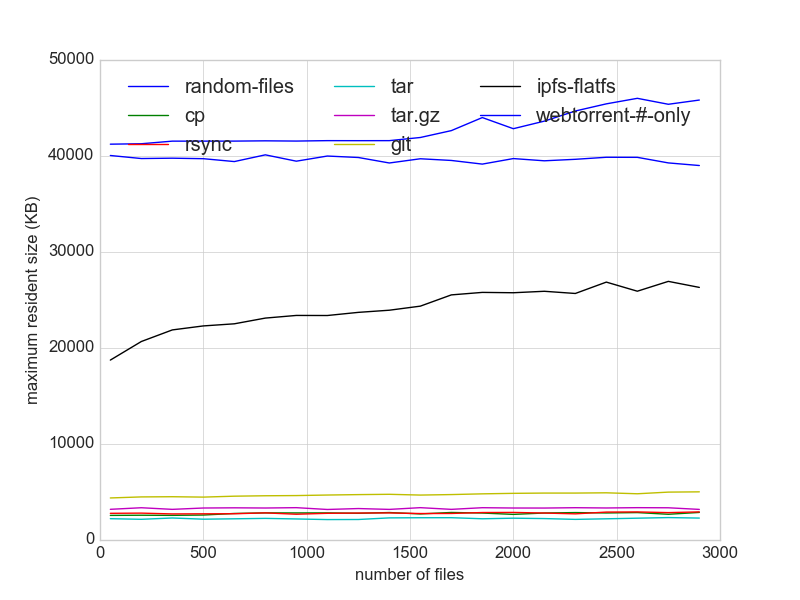
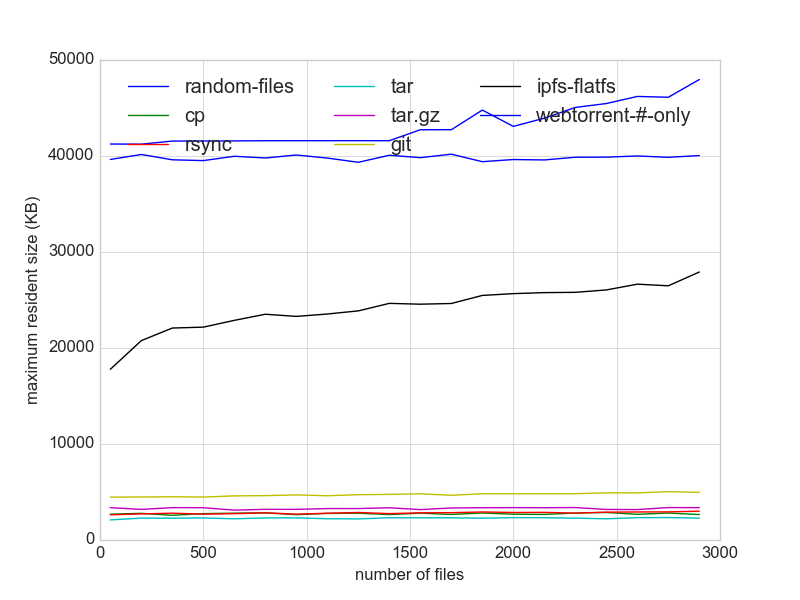
Cleanup add perf

diff --git a/add/graph.py b/add/graph.py
@@ -1,0 +1,43 @@
+import matplotlib
+import sys
+
+matplotlib.use("Agg")
+import matplotlib.pyplot as plt
+import pylab
+
+plt.style.use("seaborn-whitegrid")
+
+NFILES, TOOLS, step, FILESIZEKB = sys.argv[1:]
+TOOLS = TOOLS.split(',')
+ntools = len(TOOLS)
+tarr, marr = pylab.hsplit(pylab.loadtxt("outdata"), 2)
+l = len(tarr)
+datapoints = int(l / ntools)
+tarr = tarr.reshape((datapoints, ntools)).T
+marr = marr.reshape((datapoints, ntools)).T
+print("number of datapoints " + str(datapoints))
+xarray = pylab.arange(50, int(NFILES), int(step))
+for x in tarr:
+    pylab.plot(xarray, x)
+pylab.xlabel("number of files")
+pylab.ylabel("elapsed time (s)")
+pylab.legend(TOOLS, loc="upper center", ncol=3)
+pylab.title("each size: " + FILESIZEKB + "kb")
+pylab.savefig("outdata.png")
+pylab.clf()
+
+throughputs = xarray / tarr * FILESIZEKB
+for x in throughputs:
+    pylab.plot(xarray, x)
+pylab.xlabel("number of files")
+pylab.ylabel("write throughput (KB/s)")
+pylab.legend(TOOLS, loc="upper center", ncol=3)
+pylab.savefig("throughput_outdata.png")
+pylab.clf()
+
+for x in marr:
+    pylab.plot(xarray, x)
+pylab.xlabel("number of files")
+pylab.ylabel("maximum resident size (KB)")
+pylab.legend(TOOLS, loc="upper center", ncol=3)
+pylab.savefig("memory.png")

diff --git a/README.md b/README.md
@@ -5,21 +5,25 @@ dependencies: go-ipfs, curl, rrdtool, jq, python3
 
 #add
 
-Add performance of many small files on ipfs, compared to various tools.
+Add performance of many small files on ipfs, compared to various tools.  
+data: 10 kb each of files up to 3000 files
 ![](add/outdata.png)
 
 #bitswap
+
 - A more compact version of https://github.com/ion1/ipfs-benchmark (@ion1)  
 
 ![](bitswap/ipfs.png)
 
 #gc
+
 - https://github.com/ipfs/go-ipfs/issues/3462 (@kevina)
 
 #memory
 
 Memory consumption of `ipfs add` compared to various tools
+data: 10 kb each of files up to 3000 files
 ![](add/memory.png)
 
-#repo size
+#repo size after pinned add
 - https://github.com/ipfs/go-ipfs/issues/3621, https://ipfs.io/ipfs/QmcsrSRuBmxNxcEXjMZ1pmyRgnutCGwfAhhnRfaNn9P94F (@mguentner)
